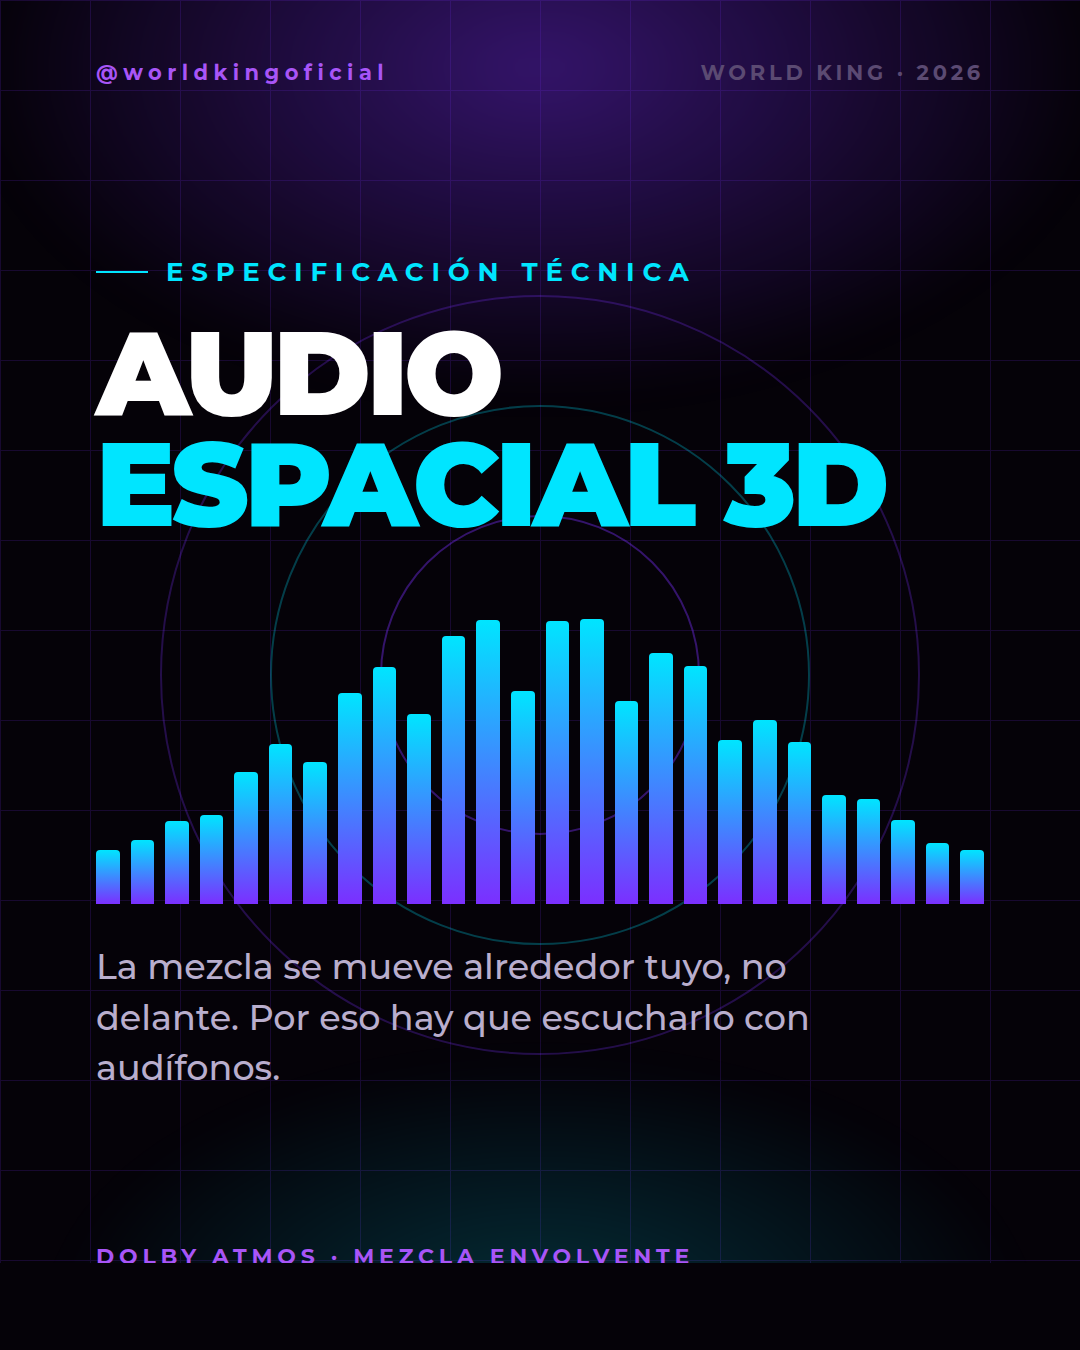
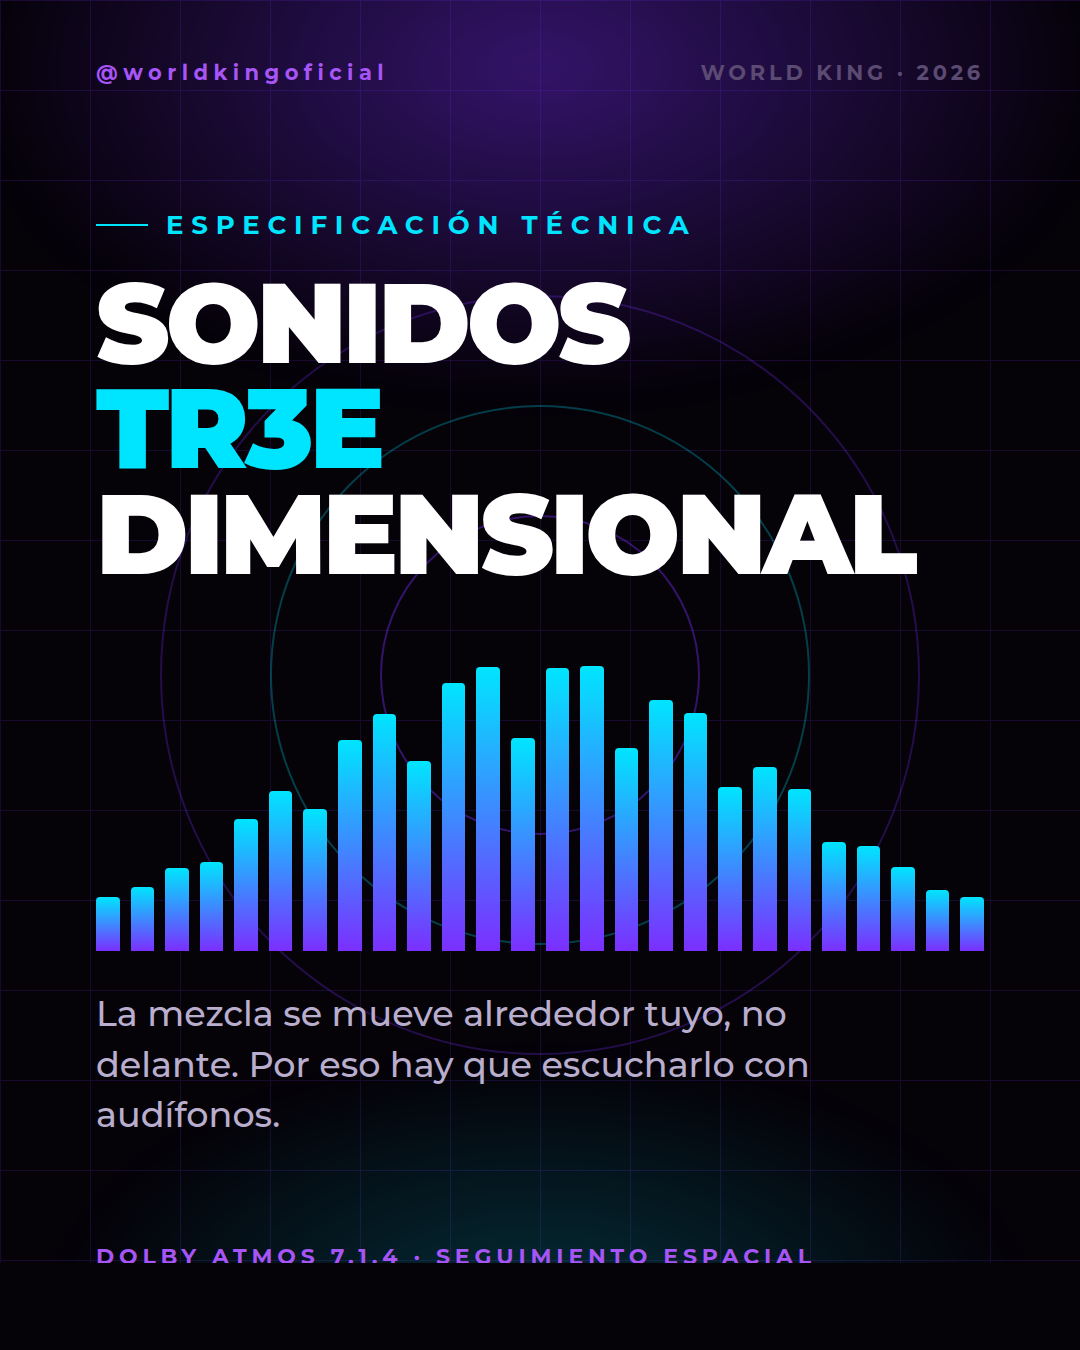
Corrige las gráficas de World King con datos del press kit oficial
El press kit aporta datos que la propuesta de contenido no tenía o
contradice: el EP es 3L REYGRESO, el single CACHAY ya está publicado,
el audio es Dolby Atmos 7.1.4, y hay trayectoria verificable (Festival
de Las Condes 2024 ante +12.000 personas como telonero de Carlos Vives,
Semana Barnecheina 2019).

Con eso el post de prueba social deja de necesitar cifras inventadas y
pasa a usar hitos reales. Las coordenadas apuntan a Cerro 18 Sur, Lo
Barnechea, el barrio del artista, en vez de a Santiago genérico.

Se adopta REYGRESO (REY + REGRESO) como anclaje entre la narrativa
exosférica y la identidad real: no es una llegada, es un regreso.

Queda registrada en marca.json la discrepancia de catálogo: la
propuesta cita Palm Beach y Corsica, que el press kit no menciona.

Changed region(s): [[0.0917, 0.1556, 0.9167, 0.84], [0.3056, 0.9022, 0.7333, 0.9333]]

diff --git a/produccion-contenido/clientes/world-king/graficas/build.js b/produccion-contenido/clientes/world-king/graficas/build.js
@@ -36,13 +36,16 @@ const b64 = f => { try { return fs.existsSync(f) ? fs.readFileSync(f).toString('
 const fuente = b64(FUENTE);
 const fondo = n => b64(path.join(VISUALES, n));
 
-// ---------- DATOS PENDIENTES DEL CLIENTE ----------
-// Marcados así para que se vea en la gráfica qué falta confirmar antes de publicar.
-const TEMA = 'TÍTULO DEL TEMA';
+// ---------- DATOS ----------
+// Confirmados en el press kit oficial (ver ../press-kit-oficial.pdf).
+const EP = '3L REYGRESO';
+const SINGLE = 'CACHAY';
+const FORMATO_AUDIO = 'DOLBY ATMOS 7.1.4';
+const COORDENADAS = '33°21\'S  70°31\'W';   // Lo Barnechea, Cerro 18 Sur — barrio del artista
+const ORIGEN = 'CERRO 18 SUR · LO BARNECHEA';
+
+// PENDIENTE del cliente: se muestra como marcador visible para no publicar datos inventados.
 const FECHA_LANZAMIENTO = 'XX.XX.2026';
-const COORDENADAS = '33°26\'S  70°39\'W';   // Santiago de Chile
-const ALTITUD = '640 KM · EXÓSFERA';
-const STREAMS = { palm_beach: '—', corsica: '—', oyentes: '—' };
 
 // ---------- PIEZAS ----------
 const piezas = [
@@ -51,32 +54,32 @@ const piezas = [
     w: 1080, h: 1350,
     tipo: 'espectro',
     kicker: 'ESPECIFICACIÓN TÉCNICA',
-    titulo: 'AUDIO<br><span class="cian">ESPACIAL 3D</span>',
+    titulo: 'SONIDOS<br><span class="cian">TR3E</span> DIMENSIONAL',
     texto: 'La mezcla se mueve alrededor tuyo, no delante. Por eso hay que escucharlo con audífonos.',
-    pie: 'DOLBY ATMOS · MEZCLA ENVOLVENTE',
+    pie: `${FORMATO_AUDIO} · SEGUIMIENTO ESPACIAL`,
   },
   {
     id: 'post-02-slide-03-coordenadas',
     w: 1080, h: 1350,
     tipo: 'coordenadas',
-    kicker: 'PUNTO DE ENTRADA',
+    kicker: 'PUNTO DE ORIGEN',
     coords: COORDENADAS,
-    altitud: ALTITUD,
-    titulo: FECHA_LANZAMIENTO,
-    texto: 'Sincroniza tu frecuencia.',
+    altitud: ORIGEN,
+    titulo: EP,
+    texto: `El single <b>${SINGLE}</b> ya está sonando.<br>El EP completo aterriza el ${FECHA_LANZAMIENTO}.`,
   },
   {
     id: 'post-03-slide-01-terminal',
     w: 1080, h: 1350,
     tipo: 'terminal',
-    kicker: 'TRANSMISIÓN RECIBIDA',
-    titulo: 'REGISTRO<br><span class="cian">DE SEÑAL</span>',
+    kicker: 'REGISTRO VERIFICADO',
+    titulo: 'NO ES LA<br><span class="cian">PRIMERA VEZ</span>',
     filas: [
-      ['PALM BEACH', STREAMS.palm_beach],
-      ['CORSICA', STREAMS.corsica],
-      ['OYENTES MENSUALES', STREAMS.oyentes],
+      ['FESTIVAL DE LAS CONDES · 2024', '+12.000'],
+      ['SEMANA BARNECHEINA · 2019', '1º LUGAR'],
+      ['GIRA DE MEDIOS · COLOMBIA', '2018'],
     ],
-    pie: 'DATOS VERIFICADOS · FUENTE: SPOTIFY',
+    pie: 'TELONERO DE CARLOS VIVES · SANTIAGO',
   },
   {
     id: 'historia-01-cuenta-regresiva',
@@ -84,8 +87,8 @@ const piezas = [
     tipo: 'historia',
     imagen: 'historia-01-fondo-cuenta-regresiva.png',
     kicker: 'SEÑAL DETECTADA',
-    titulo: 'ALGO<br>ESTÁ<br><span class="violeta">BAJANDO</span>',
-    texto: 'Cuenta regresiva activa.',
+    titulo: 'EL REY<br><span class="violeta">VUELVE</span>',
+    texto: `${EP} · cuenta regresiva activa.`,
     hueco: true,   // deja aire abajo para el sticker nativo de cuenta regresiva
     pie: 'DEJA ESPACIO ABAJO PARA EL STICKER',
   },
@@ -152,7 +155,7 @@ const css = `
           color:${C.cian};margin-bottom:30px;display:flex;align-items:center;gap:18px}
   .kicker::before{content:'';width:52px;height:2px;background:${C.cian}}
 
-  h1{font-size:118px;font-weight:900;line-height:.94;letter-spacing:-.035em;text-transform:uppercase}
+  h1{font-size:112px;font-weight:900;line-height:.94;letter-spacing:-.035em;text-transform:uppercase}
   h1.xl{font-size:150px}
   h1.mono{font-family:'Mont',ui-monospace,monospace;font-size:132px;letter-spacing:-.02em}
   h1.cita{font-size:78px;line-height:1.14;letter-spacing:-.02em;font-weight:800}
